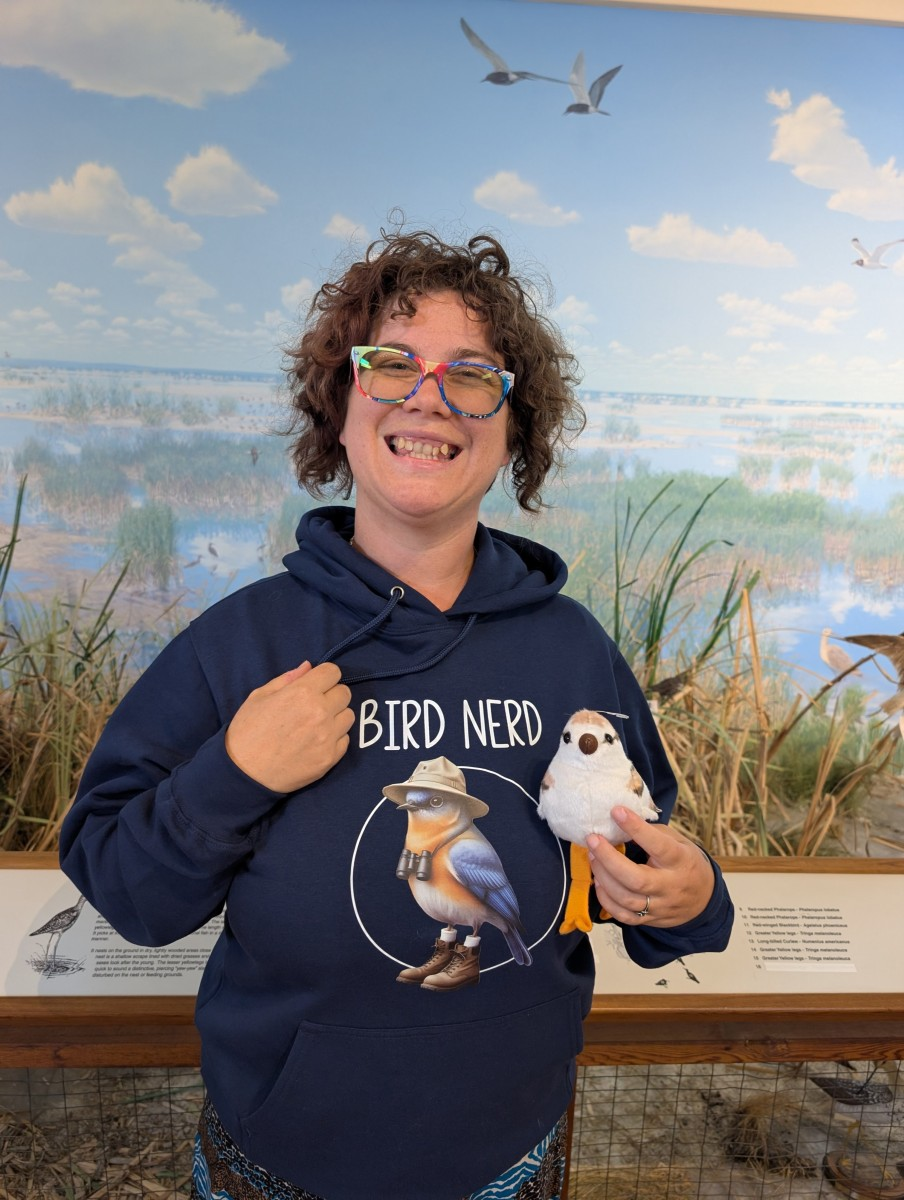
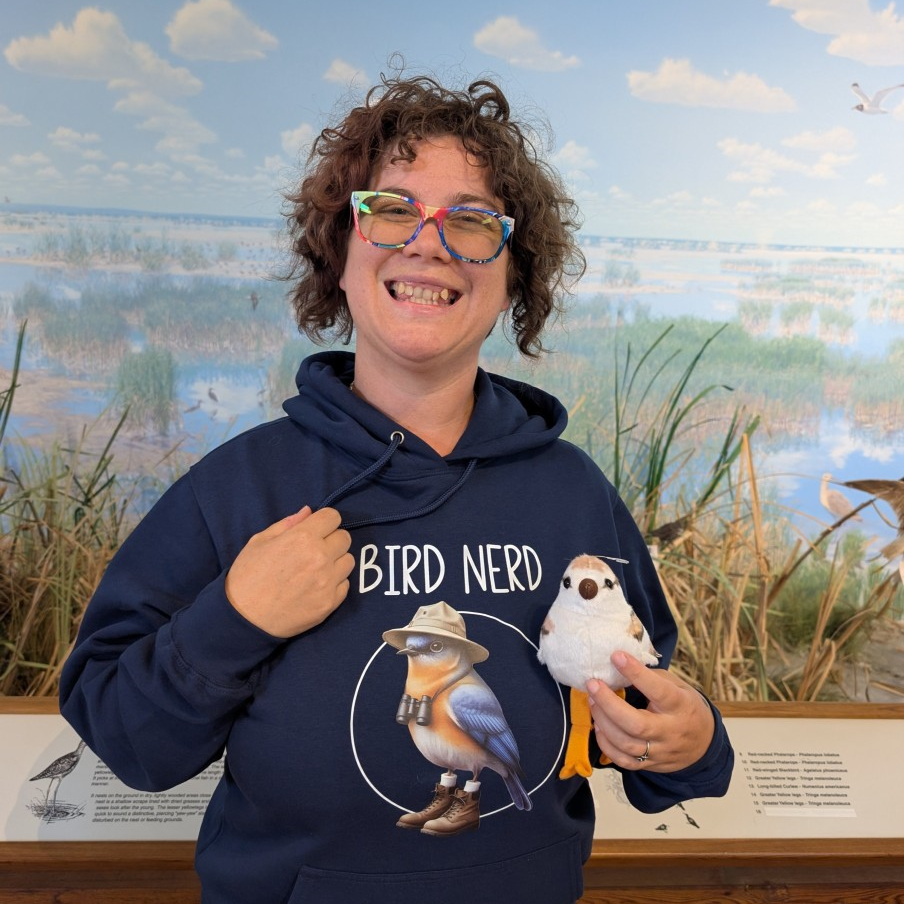
Attempted header image.

diff --git a/styles.scss b/styles.scss
@@ -26,6 +26,11 @@ $h5-font-size: 1em;
   }
 }
 
+.quarto-title-banner {
+	background-position: center;
+	min-height: 50%;
+}
+
 .img-left {
   float: left;
   max-width: 40%;
